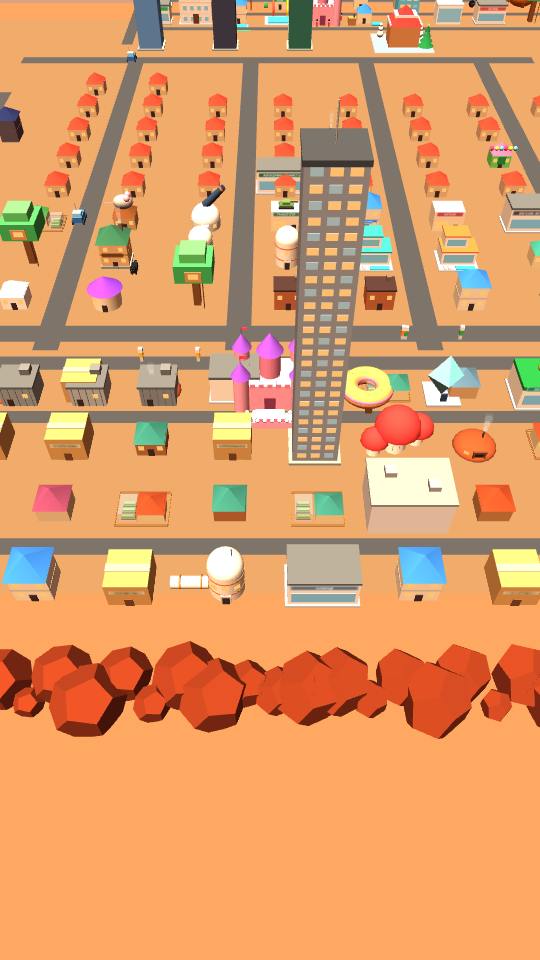
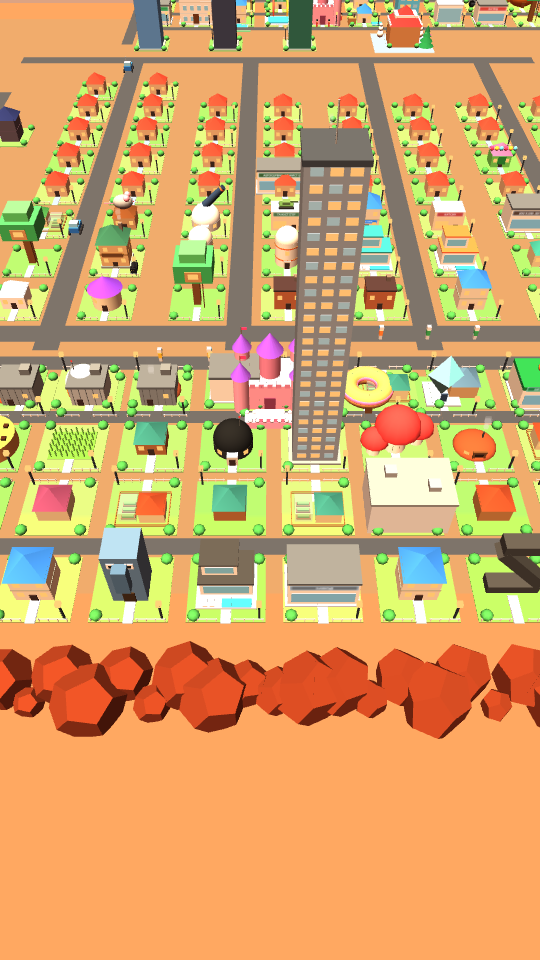
Map: promzona for 722 subscribers, custom models for special requests, cozy lots for every house, go/ landing
Claude-Session: https://claude.ai/code/session_016pR9oEj5MWHV9PKkxUgw4F

diff --git a/render/karta/index.html b/render/karta/index.html
@@ -776,14 +776,17 @@ CT4.forEach(o=>{o.c.visible=false;o.h.g.visible=true});MK4.visible=true;$('cnt4'
 {const PZX=300,PZZ=-52;const gz=new THREE.Mesh(new THREE.PlaneGeometry(90,196),new THREE.MeshLambertMaterial({color:0x8a8f98,polygonOffset:true,polygonOffsetFactor:-1,polygonOffsetUnits:-2}));gz.rotation.x=-1.5708;gz.position.set(PZX,.03,PZZ);gz.receiveShadow=true;sc.add(gz);
 for(let i=0;i<=44;i++){box(sc,.3,2.4,.3,0xf2c230,PZX-45+i*90/44,1.2,PZZ-98);box(sc,.3,2.4,.3,0xf2c230,PZX-45+i*90/44,1.2,PZZ+98)}for(let i=0;i<=96;i++){box(sc,.3,2.4,.3,0xf2c230,PZX-45,1.2,PZZ-98+i*196/96);box(sc,.3,2.4,.3,0xf2c230,PZX+45,1.2,PZZ-98+i*196/96)}
 [[PZX,PZZ-98,90,.15],[PZX,PZZ+98,90,.15],[PZX-45,PZZ,.15,196],[PZX+45,PZZ,.15,196]].forEach(a=>box(sc,a[2],.2,a[3],0x1a1a1a,a[0],2.2,a[1]));
-{const r=new THREE.Mesh(new THREE.PlaneGeometry(60,4),roadM);r.rotation.x=-1.5708;r.position.set(275,.06,12);sc.add(r);[264,282,300,318,336].forEach(x=>{const q=new THREE.Mesh(new THREE.PlaneGeometry(2.6,190),roadM);q.rotation.x=-1.5708;q.position.set(x,.07,PZZ);sc.add(q)})}
+{const r=new THREE.Mesh(new THREE.PlaneGeometry(60,4),roadM);r.rotation.x=-1.5708;r.position.set(275,.06,12);sc.add(r);[300].forEach(x=>{const q=new THREE.Mesh(new THREE.PlaneGeometry(2.6,190),roadM);q.rotation.x=-1.5708;q.position.set(x,.07,PZZ);sc.add(q)})}
 const gt=new THREE.Group();[-6,6].forEach(x=>box(gt,1,8,1,0x3a3f48,x,4,0));box(gt,13,2.8,.6,0x1d2a44,0,8.4,0);lab(gt,'ПРОМЗОНА',12,1.3,'#1d2a44','#f7c24a',0,8.9,.32);lab(gt,'ТВОЙ ДОМ УЖЕ СТРОИТСЯ',12,.9,'#f7c24a','#1a1410',0,7.6,.32);gt.position.set(256,0,12);gt.rotation.y=-Math.PI/2;sc.add(gt);
 const slots=[];for(let r=0;r<10;r++)for(const x of[258,270,276,288,294,306,312,324,330,342].filter((v,i)=>i%2===0||true))slots.push([x,PZZ-58+r*12]);
 const S2=[];for(let r=0;r<10;r++)[258,270,288,306,324,342].forEach(x=>{if(Math.abs(x-264)<4||Math.abs(x-282)<4)return;S2.push([x+(x<264?0:0),PZZ-58+r*12])});
-const SL=[];for(let r=0;r<18;r++)[258.5,269.5,276.5,287.5,294.5,305.5,312.5,323.5,330.5,341.5].forEach(x=>SL.push([x,PZZ-93+r*10.9]));
-let k=0;const put=(g,h)=>{const sl=SL[k++];g.position.set(sl[0],0,sl[1]);g.rotation.y=sl[0]%18<9?-Math.PI/2:Math.PI/2;g.visible=true;if(h){h.x=sl[0];h.z=sl[1];h.district='Промзона'}};
+const SL=[];for(let r=0;r<26;r++)[258,265,272,279,286,293,307,314,321,328,335,342].forEach(x=>SL.push([x,PZZ-94+r*7.5]));
+for(let r=0;r<9;r++)for(let x=262;x<=346;x+=7)SL.push([x,-412+r*7.5]);
+{const g2=new THREE.Mesh(new THREE.PlaneGeometry(94,72),new THREE.MeshLambertMaterial({color:0x8a8f98,polygonOffset:true,polygonOffsetFactor:-1,polygonOffsetUnits:-2}));g2.rotation.x=-1.5708;g2.position.set(304,.03,-382);sc.add(g2);for(let i=0;i<=40;i++){box(sc,.3,2.4,.3,0xf2c230,257+i*94/40,1.2,-418);box(sc,.3,2.4,.3,0xf2c230,257+i*94/40,1.2,-346)}const gt2=new THREE.Group();[-6,6].forEach(x=>box(gt2,1,8,1,0x3a3f48,x,4,0));box(gt2,13,2.8,.6,0x1d2a44,0,8.4,0);lab(gt2,'ПРОМЗОНА-2',12,1.3,'#1d2a44','#f7c24a',0,8.9,.32);lab(gt2,'ТВОЙ ДОМ УЖЕ СТРОИТСЯ',12,.9,'#f7c24a','#1a1410',0,7.6,.32);gt2.position.set(304,0,-344);sc.add(gt2)}
+let k=0;const put=(g,h)=>{const sl=SL[k++];if(!sl){g.visible=false;return}g.scale.setScalar(.62);g.position.set(sl[0],0,sl[1]);g.rotation.y=sl[0]%18<9?-Math.PI/2:Math.PI/2;g.visible=true;if(h){h.x=sl[0];h.z=sl[1];h.top=4;h.district=sl[1]<-300?'Промзона-2':'Промзона'}};
 MLIST.filter(h=>h.site).forEach(h=>{put(h.g,h);h.kind='стройка — ждёт комментарий (TikTok)'});
-for(let i=0;i<85;i++){const g=mk('site');sc.add(g);const h={n:'',anon:1,site:1,g,top:6,kind:'стройка — ждёт комментарий (YouTube)',day:4,district:'Промзона'};put(g,h);MLIST.push(h)}
+const YT_SUBS=722,YT_HOMES=430;// обновлять: подписчики YouTube и жители YouTube с домами
+for(let i=0;i<YT_SUBS-YT_HOMES;i++){const g=mk('site');sc.add(g);const h={n:'',anon:1,site:1,g,top:6,kind:'стройка — ждёт комментарий (YouTube)',day:10,district:'Промзона'};put(g,h);MLIST.push(h)}
 for(let i=0;i<49;i++){const g=mk('site');sc.add(g);const h={n:'',anon:1,site:1,g,top:6,kind:'стройка — ждёт комментарий (TikTok)',day:4,district:'Промзона'};put(g,h);MLIST.push(h)}}
 
 NEW3.forEach(h=>{if(h.fx)h.fx.forEach(f=>f.visible=false);h.rg.visible=false;if(h.deco)h.deco.visible=true});FWP.visible=false;SNOW.visible=false;DAN.fm.visible=false;PZ.visible=false;RK.visible=false;HERO.fm.visible=false;GD.forEach(d=>d.visible=false);
@@ -993,6 +996,37 @@ try{// ===== YouTube: жители из комментариев 10 ноября
 const W10=[["yo_meepo", "osobyi:страна Германия с артиллерией", "страна Германия с артиллерией", 0], ["none_name_wiwiwi", "osobyi:статуя Момо Аясе вместо дома", "статуя Момо Аясе вместо дома", 0], ["cartonsstorm", "store:ВКУСНО И ТОЧКА", "гигантская «Вкусно и точка»", 0], ["ВераВера-э5ы", "izba", "дом", 0], ["ВОЗДУХАН-х5щ", "dacha", "дом", 0], ["alexfrolov9802", "osobyi:дом из Nokia 3310", "дом из Nokia 3310", 0], ["ИльяМартынов-о1м", "izba", "дом", 0], ["Doni03015", "osobyi:бункер под землёй, сверху особняк", "бункер под землёй, сверху особняк", 0], ["Mark-h4o1r", "zeml", "землянка", 0], ["oooominot", "osobyi:дом Гоку из Dragon Ball", "дом Гоку из Dragon Ball", 0], ["МаркМорозов-и1ж", "osobyi:4-этажный бункер на 30 человек", "4-этажный бункер на 30 человек", 0], ["artemgogolev2420", "store:БАР", "бар", 0], ["FRO-g9k", "osobyi:дом-банка кока-колы", "дом-банка кока-колы", 0], ["МихаїлКазмірчук-ъ6с", "dacha", "дом", 0], ["IgorZhukov25", "izba", "дом", 0], ["armanoralov601", "dacha", "дом", 0], ["димка_87677", "osobyi:Рекунская империя", "Рекунская империя", 0], ["EPTARIC", "osobyi:морковный дом", "морковный дом", 0], ["AMONGUS88064", "osobyi:дом семьи Дримурров из Deltarune", "дом семьи Дримурров из Deltarune", 0], ["GrigorBegan", "osobyi:дом из бедрока", "дом из бедрока", 0], ["UgurOsmanov-g2o", "store:РЕСТОРАН", "ресторан", 0], ["Random_Ghast", "osobyi:дом-свинья из Майнкрафта", "дом-свинья из Майнкрафта", 0], ["Українськенебо", "zeml", "землянка на краю города", 0], ["filesOfCheremsha", "izba", "дом", 0], ["мартышкность", "osobyi:дом-большой унитаз", "дом-большой унитаз", 0], ["зюзьевич", "brick", "дом из бетона", 0], ["Anastasia-q4j", "castle", "красный замок и бункер на 100 человек", 0], ["НуралыБалтабаев-э2о", "osobyi:Чернобыльская АЭС", "Чернобыльская АЭС", 0], ["sashkatalgat", "osobyi:подземный бункер с ракетами", "подземный бункер с ракетами", 0], ["Login_G2V3", "osobyi:бункер из стали и титана", "бункер из стали и титана", 0], ["Артем-ь8к", "castle", "двухэтажная крепость", 0], ["Яйко_228", "osobyi:дом-подушка из незерита", "дом-подушка из незерита", 0], ["LosokdkKdkdkk", "osobyi:дом-печенька", "дом-печенька", 0], ["Шурк-ж5д", "osobyi:участок в высокой траве", "участок в высокой траве", 0], ["Asekop79", "izba", "деревянный дом", 0], ["АртемБаландин-у7ы", "osobyi:карбоновый дом-МТБ фулфейс", "карбоновый дом-МТБ фулфейс", 0], ["mukaliaskar8603", "sky", "небоскрёб 40 этажей", 40], ["АсанКудайбердиев-х9в", "mushrooms", "очень большой гриб", 0], ["lazy_bone1", "zeml", "хоббитская нора", 0], ["Tyo-s2p", "dacha", "дом", 0], ["Neuro_xlam", "osobyi:магический дом", "магический дом", 0], ["mr_klk99_99", "osobyi:железный дом с красной крышей", "железный дом с красной крышей", 0], ["UTOPAN-777", "osobyi:центр телекоммуникаций и цифровых технологий", "центр телекоммуникаций и цифровых технологий", 0], ["Мистер-ъ1р", "osobyi:дом-нутелла", "дом-нутелла", 0], ["Durka22808", "osobyi:психдиспансер (дурка)", "психдиспансер (дурка)", 0], ["ДимаЮлдашев-я7ш", "two", "двухэтажный дом", 0], ["твойпьяныйбатя-э2з", "osobyi:дом со всеми персонажами Марвел", "дом со всеми персонажами Марвел", 0], ["Liya._.123-a", "izba", "дом", 0], ["ПирожоксКапустой-ц5о", "osobyi:дом Спанч Боба и рядом ядерка", "дом Спанч Боба и рядом ядерка", 0], ["Billy_Butcher112", "brick", "дом из камня", 0], ["DonierDonier-s7y", "dacha", "дом", 0], ["Fan.Fotball25", "osobyi:перевёрнутый дом", "перевёрнутый дом", 0], ["Максимность-р2э2и-телифон", "osobyi:дом-самолёт", "дом-самолёт", 0], ["Riofrommars", "izba", "дом", 0], ["хлебушек-номер-1", "osobyi:дом из бедрока", "дом из бедрока", 0], ["АндрейТатаров-с8д", "dacha", "дом", 0], ["АндрейБах-ц6э", "zeml", "землянка", 0], ["ЮлияЧмелева-й7з", "izba", "дом", 0], ["ЯрославТитов-в5и", "dacha", "дом", 0], ["YeosM_fanat_ya", "izba", "дом", 0], ["last_breathsans-error", "dacha", "дом", 0], ["pfaissd", "tc", "трёхэтажный супермаркет", 0], ["fanatslava", "izba", "дом", 0], ["ИсламИсаев-ю1ч", "dacha", "дом", 0], ["kama-roblox777", "izba", "дом", 0], ["симп-и4п", "dacha", "дом", 0], ["vanil_official", "izba", "дом", 0], ["MayaAvetisyan-p7s", "osobyi:военный штаб", "военный штаб", 0], ["СветланаМовшович-т6ь", "dacha", "дом", 0], ["BekaJoroev-c7e8f", "izba", "дом", 0], ["Catnet_2", "dacha", "дом", 0], ["Aitoshka_chiken", "osobyi:своя страна против всех", "своя страна против всех", 0], ["Tuev33", "sky", "5-этажка и рыжий кот", 5], ["Fasd_135", "osobyi:завод для ресурсов города", "завод для ресурсов города", 0], ["Джедай1-1", "izba", "дом", 0], ["MakarPecherskiy", "dacha", "дом", 0], ["AnuarMaksut-m6w", "osobyi:дом-чёрная дыра", "дом-чёрная дыра", 0], ["амир-ь9щ1м", "osobyi:страна под флагом Кыргызстана", "страна под флагом Кыргызстана", 0], ["ЗахарДрибас", "osobyi:дом Сквидварда", "дом Сквидварда", 0], ["mark-j8s4e", "izba", "дом", 0], ["ЗА.УХОГРАД", "dacha", "дом", 0], ["Lazy_my7", "two", "двухэтажный домик", 0], ["o3oiop", "osobyi:дом Сквидварда", "дом Сквидварда", 0], ["Itzz_PoZZIzA", "osobyi:дом в стиле хайтек", "дом в стиле хайтек", 0], ["МаликаДжамалудинова-ъ3й", "osobyi:завод пельменей", "завод пельменей", 0], ["FD6_fan", "two", "внизу пекарня, наверху квартира", 0], ["Ярик-й4щ8ф", "osobyi:дом в форме Z", "дом в форме Z", 0], ["АянЖалгасулы-п8с", "osobyi:дом на воздушных шариках", "дом на воздушных шариках", 0], ["raihanjumalieva4155", "izba", "дом", 0], ["RGCBAWI980", "dacha", "дом", 0], ["hisytkitten-j1x", "izba", "дом", 0], ["THMOTKA", "dacha", "дом", 0], ["Taco-Doors", "osobyi:флаг-страна на Марсе", "флаг-страна на Марсе", 0], ["СеняТуркин-ф7э", "store:МАКДОНАЛЬДС", "Макдональдс", 0], ["voinaww3", "osobyi:дом с синей крышей, зелёный, рядом чихуахуа", "дом с синей крышей, зелёный, рядом чихуахуа", 0], ["YaroslavKozlyuk", "izba", "дом из коричневых досок", 0], ["dinamit_3485", "sky", "5-этажный дом в стиле СССР", 5], ["aqua_goner", "osobyi:огромный корабль", "огромный корабль", 0], ["Крипобум", "osobyi:синий дом, серая крыша, газон", "синий дом, серая крыша, газон", 0], ["боглик", "izba", "дом", 0], ["kimkot228", "osobyi:дом-рыжий кот", "дом-рыжий кот", 0], ["Ivan-g9o3g", "dacha", "дом", 0], ["echo17life", "osobyi:простой хайтек-дом", "простой хайтек-дом", 0], ["olegvitkovskij4754", "izba", "дом", 0], ["5_lexs", "store:ВКУСНО И ТОЧКА", "Вкусно и точка", 0], ["АртёмБородин-х6л", "dacha", "дом", 0], ["ЗоригтоАюшеев-х6у", "store:ВКУСНО И ТОЧКА", "Вкусно и точка", 0], ["abo60_1", "banya", "баня", 0], ["умарлучший-р8в", "izba", "дом", 0], ["Аслан-л5с3р", "villa", "большой особняк", 0], ["ВладимирВырдылин-ю4о", "dacha", "дом", 0], ["Andwins", "castle", "замок", 0], ["человый-кракен", "store:ВКУСНО И ТОЧКА", "Вкусно и точка", 0], ["АртурКондренко", "izba", "дом", 0], ["FogaFoga-h1v", "osobyi:дом-кот", "дом-кот", 0], ["Стеноцвет", "dacha", "дом", 0], ["MDLUFFY-OFF", "boxH", "домик из коробки", 0], ["VladNgames", "osobyi:дом-сердце с аватаркой", "дом-сердце с аватаркой", 0], ["Veznan76", "osobyi:завод атомных бомб", "завод атомных бомб", 0], ["outrifbe", "osobyi:дом из мема «Да ты что..»", "дом из мема «Да ты что..»", 0], ["Мафия-220", "osobyi:необычный дом", "необычный дом", 0], ["kifir-n5p", "store:ПЯТЁРОЧКА", "Пятёрочка-дом", 0], ["XirobonMamatkulova", "izba", "дом", 0], ["henmru", "osobyi:дом-шестерня", "дом-шестерня", 0], ["Тимофей-прив", "two", "двухэтажка как на даче", 0], ["Margarita-q6p1j", "izba", "обычный дом", 0], ["AbdumajidAbdubositov", "brick", "синяя крыша, красные стены", 0], ["DustLOVEtea", "dacha", "дом", 0], ["Стикмен_в_синих_очках", "osobyi:дом на дереве", "дом на дереве", 0], ["Гусь_деловусь", "osobyi:дом-гусь", "дом-гусь", 0], ["ggg_ggg-gg", "osobyi:телевышка для интернета", "телевышка для интернета", 0], ["Аристарх-щ1л8л", "osobyi:хайтек-дом", "хайтек-дом", 0], ["mikhail_pts", "osobyi:база 2Fort (TF2)", "база 2Fort (TF2)", 0], ["DilfuzaOchilova-b7l4p", "osobyi:дом-ракета", "дом-ракета", 0], ["KIMONO_BLACK", "osobyi:дом-кекс", "дом-кекс", 0], ["King_Elnyr", "osobyi:дом-Сатурн", "дом-Сатурн", 0], ["ArturPaket", "izba", "обычный синий дом", 0], ["ИлькинАхмедли-р5п", "two", "жёлтая двухэтажка", 0], ["KoilZairex_Nik-me5zu", "castle", "замок в стиле дарк-фэнтези", 0], ["Allan-h3e2z", "izba", "дом", 0], ["Ami_YT2016", "dacha", "дом", 0], ["SaidaTursunova-bb3tw", "osobyi:дом-перец", "дом-перец", 0], ["Dawut-s9i6x", "izba", "обычный дом", 0], ["пузо-е2о", "villa", "самый большой дом", 0], ["monkey_D_luffyN1", "izba", "дом", 0], ["NyashechnyKotik", "osobyi:дом-котик", "дом-котик", 0], ["SweetSniper-e8y", "osobyi:дом-кот Максвелл", "дом-кот Максвелл", 0], ["Алмаз-ф4е6о", "osobyi:школа", "школа", 0], ["BOBCHASERofficial", "two", "двухэтажный дом", 0], ["Xretelov", "capsule", "белый мини-дом", 0], ["LamineYamal-304-isp", "osobyi:чёрно-белый дом", "чёрно-белый дом", 0], ["PIZZAPLAY.ofisial", "osobyi:дом на дереве", "дом на дереве", 0], ["DavranBotoev", "castle", "замок", 0], ["Todji-andGOJO", "osobyi:дом-красный Сатурн", "дом-красный Сатурн", 0], ["зюзяс137", "osobyi:атомная электростанция", "атомная электростанция", 0], ["levon_here", "dacha", "дом", 0], ["Санс-к1с", "osobyi:дом с котиками", "дом с котиками", 0], ["molofok_z", "osobyi:дом-молоток", "дом-молоток", 0], ["ZILOLASALAKHITDINOVA", "castle", "замок", 0], ["Назар-ю3д4г", "izba", "дом", 0], ["Сёма-д7д2р", "osobyi:дом-диван", "дом-диван", 0], ["Imnot-m5h", "boxH", "дом-коробка", 0], ["АнастасияАбрамежкая", "osobyi:школа", "школа", 0], ["CowBoy355-rbx", "dacha", "дом", 0], ["dianasakibekova7204", "two", "двухэтажный дом", 0], ["GoldFlareGD", "shalash", "сарай", 0], ["МаринаШилина-ъ6ъ", "izba", "дом", 0], ["opelek_kpblca", "osobyi:дом на колёсах у парковки", "дом на колёсах у парковки", 0], ["Gorod_Kotikov", "dacha", "дом", 0], ["санчоус002", "store:НАЦИОНАЛЬНЫЙ РЕСТОРАН", "многонациональный ресторан", 0], ["ВарвараСпиридонова-ы2ш", "izba", "дом", 0], ["Driem1221-r5e", "osobyi:дом-зелёная буква V", "дом-зелёная буква V", 0], ["真恐怖-f7z", "dacha", "дом", 0], ["НиколайПогребенный-т2б", "osobyi:дом на дереве", "дом на дереве", 0]];
 function saturn10(c){const g=new THREE.Group();msh(g,new THREE.SphereGeometry(3,20,14),c||0xe8b46a,0,3.4,0);const r=new THREE.Mesh(new THREE.TorusGeometry(4.6,.35,6,32),mat(0xf4e0b0));r.position.y=3.4;r.rotation.x=1.2;g.add(r);g.userData.top=6.6;return g}
 function flag10(c){const g=izba(0xe8d8c0,0x6a3a2a);box(g,.3,10,.3,0xd8dce4,2.6,5,1.6);box(g,4,1.4,.1,c||0xd93a2a,4.6,9.2,1.6);g.userData.top=10.5;return g}
+
+// --- модели по особым просьбам жителей (выпуск 10) ---
+const P10={
+toilet(){const g=new THREE.Group();msh(g,new THREE.CylinderGeometry(2.6,2,3,20),0xf4f4f6,0,1.5,.6);const t=msh(g,new THREE.TorusGeometry(2.3,.45,8,24),0xe8e8ee,0,3.1,.6);t.rotation.x=1.5708;box(g,4.4,5,1.8,0xf4f4f6,0,4,-1.8);box(g,4.6,.6,2,0xdcdce4,0,6.7,-1.8);box(g,1,1.4,.2,0x6a4326,0,.9,2.55);g.userData.top=7.2;return g},
+cookie(c){const g=new THREE.Group();const m=msh(g,new THREE.CylinderGeometry(3.6,3.6,2.4,26),c||0xc98a4a,0,1.2,0);for(let i=0;i<9;i++)box(g,.6,.4,.6,0x3a2014,Math.cos(i*2.4)*(1+i%3*.8),2.5,Math.sin(i*2.4)*(1+i%3*.8));box(g,1,1.4,.2,0x6a4326,0,.8,3.6);g.userData.top=3;return g},
+jar(c,lab2){const g=new THREE.Group();msh(g,new THREE.CylinderGeometry(2.6,2.6,6,22),c,0,3,0);msh(g,new THREE.CylinderGeometry(2.7,2.7,1,22),0xf4f4f4,0,6.4,0);lab(g,lab2,4,1.2,'#ffffff',c===0xd81e1e?'#d81e1e':'#5a3010',0,3.4,2.62);box(g,1,1.4,.2,0x6a4326,0,.7,2.65);g.userData.top=7;return g},
+veg(c,leaf){const g=new THREE.Group();const m=msh(g,new THREE.ConeGeometry(2.4,7,14),c,0,3.5,0);m.rotation.x=Math.PI;m.position.y=3.6;for(let i=0;i<4;i++){const l=msh(g,new THREE.ConeGeometry(.5,2.4,6),leaf||0x3aa04a,Math.cos(i*1.57)*.6,7.8,Math.sin(i*1.57)*.6);l.rotation.z=Math.cos(i*1.57)*.4}box(g,1,1.4,.2,0x3a2014,0,1,1.6);g.userData.top=8.4;return g},
+cupcake(){const g=new THREE.Group();msh(g,new THREE.CylinderGeometry(3,2.3,3,18),0xf2a0c0,0,1.5,0);msh(g,new THREE.SphereGeometry(3.1,18,10,0,6.283,0,1.6),0xfff4e8,0,3,0);msh(g,new THREE.SphereGeometry(.7,10,8),0xd81e3a,0,6.2,0);box(g,1,1.4,.2,0x6a4326,0,.7,2.7);g.userData.top=7;return g},
+heart(){const g=new THREE.Group();[-1.3,1.3].forEach(x=>msh(g,new THREE.SphereGeometry(2.2,16,12),0xe8325a,x,5,0));const c=msh(g,new THREE.ConeGeometry(3.4,4.4,16),0xe8325a,0,2.4,0);c.rotation.x=Math.PI;box(g,1,1.4,.2,0x3a1018,0,.9,1.6);g.userData.top=7.4;return g},
+goose(){const g=new THREE.Group();msh(g,new THREE.SphereGeometry(3,16,12),0xf4f4f4,0,2.6,0).scale.set(1.3,.8,1);box(g,1,5,1,0xf4f4f4,0,5,2.6);box(g,1.4,1.2,1.6,0xf4f4f4,0,7.6,2.9);box(g,.6,.5,1.2,0xf2a030,0,7.5,4);box(g,1,1.4,.2,0x3a2414,0,1,3.8);g.userData.top=8.4;return g},
+plane(){const g=new THREE.Group();const b=msh(g,new THREE.CylinderGeometry(1.6,1.6,10,16),0xe8ecf2,0,3,0);b.rotation.x=1.5708;box(g,12,.4,2.6,0xd8dce4,0,3,0);box(g,4,.3,1.4,0xd8dce4,0,4.6,-4.4);box(g,.3,2.4,1.4,0xd93a2a,0,4.4,-4.4);[-4,-1.5,1.5].forEach(z=>box(g,.1,.6,.6,0x7fc0f0,1.62,3.4,z));[-3,3].forEach(x=>box(g,.4,1.6,.4,0x3a3f48,x,1,0));g.userData.top=6;return g},
+rocket(){const g=new THREE.Group();msh(g,new THREE.CylinderGeometry(1.6,1.8,9,18),0xf4f4f4,0,4.5,0);msh(g,new THREE.ConeGeometry(1.6,3,18),0xd93a2a,0,10.5,0);[0,1,2,3].forEach(i=>{const f=box(g,.3,3,2,0xd93a2a,Math.cos(i*1.57)*1.8,1.5,Math.sin(i*1.57)*1.8);f.rotation.y=i*1.57});msh(g,new THREE.CylinderGeometry(.6,.6,.2,14),0x7fc0f0,0,7,1.62).rotation.x=1.5708;g.userData.top=12;return g},
+blackhole(){const g=new THREE.Group();msh(g,new THREE.SphereGeometry(2.6,20,14),0x05030a,0,4,0);const r=new THREE.Mesh(new THREE.TorusGeometry(4.4,.6,8,40),new THREE.MeshBasicMaterial({color:0xff8a2a}));r.position.y=4;r.rotation.x=1.3;g.add(r);const r2=new THREE.Mesh(new THREE.TorusGeometry(5.6,.25,6,40),new THREE.MeshBasicMaterial({color:0xffd27a}));r2.position.y=4;r2.rotation.x=1.3;g.add(r2);g.userData.top=8;return g},
+treehouse(){const g=new THREE.Group();box(g,1.6,7,1.6,0x6a4326,0,3.5,0);msh(g,new THREE.SphereGeometry(4.4,12,10),0x3fae5a,0,10,0);box(g,4.6,3,4,0xb07a45,0,7.4,0);msh(g,new THREE.ConeGeometry(3.6,2,4),0x8a3b22,0,9.8,0).rotation.y=.785;for(let i=0;i<7;i++)box(g,1.4,.15,.3,0x8a5a30,2,i,1.2);g.userData.top=14;return g},
+gear(){const g=new THREE.Group();const c=msh(g,new THREE.CylinderGeometry(3.4,3.4,2,20),0x8a929c,0,4,0);c.rotation.x=1.5708;for(let i=0;i<10;i++){const t=box(g,1,1.4,2,0x7a828c,Math.cos(i*.628)*4,4+Math.sin(i*.628)*4,0)}msh(g,new THREE.CylinderGeometry(1.2,1.2,2.2,14),0x3a3f48,0,4,0).rotation.x=1.5708;box(g,6,.6,3,0x5a606a,0,.3,0);g.userData.top=8.6;return g},
+hammer(){const g=new THREE.Group();box(g,1.4,8,1.4,0x8a5a30,0,4,0);box(g,7,2.8,2.8,0x6a707a,0,9,0);box(g,1,1.4,.2,0x3a2414,0,.8,.8);g.userData.top=10.6;return g},
+phone(){const g=new THREE.Group();box(g,4.4,9,2,0x2a3a5a,0,4.5,0);box(g,3.2,2.8,.1,0x9ad07a,0,6.6,1.02);for(let r=0;r<4;r++)for(let c=0;c<3;c++)box(g,.8,.5,.1,0xd8dce4,-1+c,3.8-r*.8,1.02);lab(g,'NOKIA',2.6,.6,'#2a3a5a','#d8dce4',0,8.4,1.03);g.userData.top=9.2;return g},
+pig(){const g=new THREE.Group();box(g,6,4.4,4.4,0xf2a0b0,0,3,0);box(g,4,4,4,0xf2a0b0,0,4.4,3.6);box(g,2,1.2,.6,0xe87a90,0,3.8,5.8);[-1,1].forEach(x=>box(g,.6,.6,.2,0x1a1a1a,x,5.2,5.62));[[-2,-1.5],[2,-1.5],[-2,1.5],[2,1.5]].forEach(a=>box(g,1.2,1.4,1.2,0xf2a0b0,a[0],.7,a[1]));g.userData.top=6.6;return g},
+bedrock(){const g=new THREE.Group();for(let x=-2;x<=2;x++)for(let y=0;y<4;y++)for(let z=-2;z<=2;z+=4)box(g,1.04,1.04,1.04,[0x3a3a3a,0x5a5a5a,0x2a2a2a][(x+y*3+z)&1?0:((x*y)%3+3)%3],x*1.04,y*1.04+.5,z*1.04);box(g,5.4,1,5.4,0x4a4a4a,0,4.6,0);g.userData.top=5.4;return g},
+squid(){const g=new THREE.Group();box(g,4,9,4,0x5a7aa0,0,4.5,0);box(g,1.6,4,1.4,0x4a6a90,0,6,2.6);[-1,1].forEach(x=>{box(g,.9,.9,.2,0xf4f4f4,x,7.6,2.02);box(g,.4,.4,.1,0x1a1a1a,x,7.6,2.12)});box(g,1.4,2,.2,0x3a2a1a,0,1,2.02);g.userData.top=9.4;return g},
+pineapple(nuke){const g=new THREE.Group();msh(g,new THREE.SphereGeometry(3.2,14,12),0xf2a830,0,3.6,0).scale.set(1,1.3,1);for(let i=0;i<6;i++){const l=msh(g,new THREE.ConeGeometry(.6,3,5),0x3aa04a,Math.cos(i)*.8,8.4,Math.sin(i)*.8);l.rotation.z=Math.cos(i)*.5}box(g,1.2,1.6,.2,0x3a6a8a,0,1.2,3);if(nuke){const n=new THREE.Group();msh(n,new THREE.CylinderGeometry(.8,.8,4,12),0x4a5a3a,0,2,0);msh(n,new THREE.ConeGeometry(.8,1.4,12),0xd8c030,0,4.7,0);n.position.set(4.5,0,0);g.add(n)}g.userData.top=10;return g},
+upside(){const g=izba(0xe8d8c0,0x8a3b22);g.rotation.z=Math.PI;g.position.y=6;const w=new THREE.Group();w.add(g);w.userData.top=7;return w},
+letter(ch,c){const g=new THREE.Group();const d={Z:[[0,8,6,1.4],[0,0,6,1.4],[0,4,1.4,8.6,.75]],V:[[-1.6,4,1.4,8.6,-.35],[1.6,4,1.4,8.6,.35]]}[ch]||[];d.forEach(a=>{const b=box(g,a[2],a[3],2,c||0x3aa04a,a[0],a[1]+.7,0);if(a[4])b.rotation.z=a[4]});g.userData.top=10;return g},
+trailer(){const g=new THREE.Group();box(g,8,3.6,3.4,0xf4f0e6,0,2.4,0);box(g,8.1,.8,3.5,0x3a7ac0,0,3,0);[-2.6,2.6].forEach(x=>{const w=msh(g,new THREE.CylinderGeometry(.8,.8,.5,14),0x1a1a1a,x,.8,1.8);w.rotation.x=1.5708;const w2=msh(g,new THREE.CylinderGeometry(.8,.8,.5,14),0x1a1a1a,x,.8,-1.8);w2.rotation.x=1.5708});box(g,1,1.6,.1,0x6a4326,2.8,1.8,1.72);g.userData.top=4.4;return g},
+forts(){const g=new THREE.Group();[[-3.4,0xb83a2a],[3.4,0x2a5ab8]].forEach(a=>{box(g,5,6,5,a[1],a[0],3,0);for(let i=-2;i<=2;i+=2)box(g,1,1,5,a[1],a[0]+i,6.5,0)});box(g,2,.6,2,0x8a8a8a,0,4,0);g.userData.top=7.4;return g},
+statue(c){const g=new THREE.Group();box(g,4,2,4,0xd8d4cc,0,1,0);box(g,1.6,4,1,c||0xe8e4f0,0,4,0);msh(g,new THREE.SphereGeometry(1,12,10),0xf4e0d0,0,6.8,0);box(g,2.6,1.6,1.2,0x1a1a2a,0,7.4,-.2);[-1.2,1.2].forEach(x=>box(g,.5,3,.5,c||0xe8e4f0,x,4.4,0));g.userData.top=8.4;return g},
+marvel(){const g=mk('two');[0xd81e1e,0x2a5ad8,0x3aa04a,0xf2c230,0x1a1a1a].forEach((c,i)=>{const p=new THREE.Group();box(p,.8,1.6,.5,c,0,1.2,0);msh(p,new THREE.SphereGeometry(.45,8,6),c,0,2.3,0);p.position.set(-3+i*1.5,0,3.4);g.add(p)});return g},
+magic(){const g=izba(0x6a3ab0,0x2a1a5a);for(let i=0;i<6;i++){const st=new THREE.Mesh(new THREE.OctahedronGeometry(.4),new THREE.MeshBasicMaterial({color:0xffe27a}));st.position.set(Math.cos(i)*3,6+i%3,Math.sin(i)*3);g.add(st)}return g},
+grass(){const g=new THREE.Group();box(g,6,.2,5,0x5a9a3a,0,.1,0);for(let i=0;i<40;i++)box(g,.15,1.2+((i*7)%10)/10,.15,0x6ab84a,-2.6+(i%8)*.75,.7,-2+Math.floor(i/8)*1);g.userData.top=2;return g},
+hq(){const g=store3('ШТАБ','#4a5a3a',8);box(g,.3,9,.3,0xd8dce4,4,4.5,-2);box(g,3,1.6,.1,0x3a6a3a,5.6,8,-2);return g},
+artillery(){const g=new THREE.Group();box(g,3,1.2,3,0x4a5a3a,0,.9,0);const b=msh(g,new THREE.CylinderGeometry(.3,.4,4,10),0x3a4a2a,0,2,1.6);b.rotation.x=1.1;return g}};
 const has=f=>typeof f==='function';
 function b10(nik,tip,op,et){const t=tip.split(':')[0],arg=tip.slice(t.length+1),o=(op||'').toLowerCase();
  if(['izba','brick','dome','kupol','dacha','banya','two','zeml','capsule','cottage'].includes(t))return mk(t);
@@ -1001,6 +1035,8 @@ function b10(nik,tip,op,et){const t=tip.split(':')[0],arg=tip.slice(t.length+1),
  if(t==='boxH')return boxH(nik.slice(0,12));if(t==='studio'&&has(studio))return studio();if(t==='meteorH'&&has(meteorH))return meteorH();
  if(t==='sky')return sky3(et||20,0x8a96a8);
  if(t==='store')return store3((arg||'МАГАЗИН').toUpperCase().slice(0,16),'#d93a2a',7);
+ const R10=[[/унитаз/,()=>P10.toilet()],[/печень/,()=>P10.cookie()],[/нутелл/,()=>P10.jar(0x5a3010,'NUTELLA')],[/кока|кола/,()=>P10.jar(0xd81e1e,'COLA')],[/морков/,()=>P10.veg(0xf27a1a)],[/перец/,()=>P10.veg(0xd81e1e,0x2a8a3a)],[/кекс/,()=>P10.cupcake()],[/сердц/,()=>P10.heart()],[/гус/,()=>P10.goose()],[/самол/,()=>P10.plane()],[/ракет/,()=>P10.rocket()],[/чёрн.{0,3}дыр|черн.{0,3}дыр/,()=>P10.blackhole()],[/на дереве/,()=>P10.treehouse()],[/шестерн/,()=>P10.gear()],[/молот/,()=>P10.hammer()],[/nokia|3310/,()=>P10.phone()],[/свин/,()=>P10.pig()],[/бедрок/,()=>P10.bedrock()],[/сквидвард/,()=>P10.squid()],[/спанч|губк/,()=>P10.pineapple(/ядерк/.test(o))],[/перевёрн|перевернут/,()=>P10.upside()],[/форме z| z$/,()=>P10.letter('Z',0x3a3a3a)],[/буква v/,()=>P10.letter('V',0x3aa04a)],[/колёс|колес/,()=>P10.trailer()],[/2fort|tf2/,()=>P10.forts()],[/статуя|момо/,()=>P10.statue(0x3a2a5a)],[/марвел|marvel/,()=>P10.marvel()],[/магическ/,()=>P10.magic()],[/трав/,()=>P10.grass()],[/диван/,()=>has(sofaH)?sofaH():mk('two')],[/артиллер/,()=>{const g=flag10(0x1a1a1a);const a2=P10.artillery();a2.position.set(-3.6,0,2.4);g.add(a2);return g}],[/штаб|база/,()=>P10.hq()],[/подушк/,()=>{const g=new THREE.Group();const m=msh(g,new THREE.BoxGeometry(7,2.6,5),0x3a2e3e,0,1.3,0);box(g,1,1.4,.2,0x1a1018,0,.8,2.55);g.userData.top=3;return g}],[/корабл/,()=>has(ship3)?ship3():P10.plane()],[/гоку|dragon/,()=>{const g=dome(0xf2f2f2,0xf27a1a);return g}],[/дримурр|deltarune/,()=>izba(0x8a5ac0,0x3a2a6a)],[/мем|да ты что/,()=>store3('ДА ТЫ ЧТО..','#2a2a2a',7)],[/хайтек/,()=>villa(0x3a3a3a)],[/мтб|карбон/,()=>{const g=dome(0x1a1a1a,0x2a2a2a);return g}],[/железн/,()=>brick(0x8a929c)],[/чёрно-бел|черно-бел/,()=>izba(0xf4f4f4,0x1a1a1a)],[/синий дом|синяя/,()=>izba(0x3a6ad9,0x7a7a82)],[/зелён.{0,10}дом|чихуахуа/,()=>izba(0x3aa04a,0x3a6ad9)],[/бункер.{0,20}особняк/,()=>villa(0x6a6a6a)],[/кот|максвелл/,()=>has(domeCatsPC)?domeCatsPC():mk('dome')]];
+ for(const [re,fn] of R10)if(re.test(o))return fn();
  if(/кот|максвелл/.test(o)&&has(domeCatsPC))return domeCatsPC();
  if(/дерев/.test(o)&&has(tree3))return tree3();
  if(/сатурн/.test(o))return saturn10(/красн/.test(o)?0xd8583a:0);
@@ -1027,6 +1063,16 @@ W10.forEach((q,i)=>{const s=sl10[i];if(!s)return;let g;try{g=b10(q[0],q[1],q[2],
  g.position.set(s[0],0,s[1]);g.rotation.y=s[1]<0&&s[1]>-300?((Math.round((s[1]+214)/11)%2)?0:Math.PI):Math.PI;sc.add(g);
  MLIST.push({n:q[0],g,x:s[0],z:s[1],top:(g.userData.top||6)*g.scale.y,kind:q[2]||'дом',day:10,district:'Квартал 10 ноября'})})
 }catch(e){console.warn("yt10",e)}
+try{// ===== УЮТ: газон, дорожка, фонарь, кусты и заборчик у каждого жилого дома =====
+const LG=[0x6aa84a,0x5f9e44,0x74b052],LAMP=new THREE.MeshBasicMaterial({color:0xffd27a});
+MLIST.forEach((h,i)=>{if(!h.g||h.site||h.bld||h.anon||!h.g.parent||h.g.userData.decor)return;const g=h.g;g.userData.decor=1;const d=new THREE.Group();
+ const lw=box(d,9,.12,8.6,LG[i%3],0,.06,.4);lw.receiveShadow=false;
+ for(let k=0;k<4;k++)box(d,1.1,.14,.9,0xd8cdb8,0,.08,3.2+k*1.2>4.6?4.4:3.2+k*.4);
+ box(d,1.2,.14,3.6,0xd8cdb8,0,.09,3.1);
+ box(d,.22,3.2,.22,0x2a2d34,3.8,1.6,4.2);const l=new THREE.Mesh(new THREE.BoxGeometry(.6,.6,.6),LAMP);l.position.set(3.8,3.3,4.2);d.add(l);
+ [[-3.6,4.1],[ -3.6,-3.4],[3.7,-3.4]].forEach(a=>{const b=msh(d,new THREE.SphereGeometry(.75,8,6),0x3f8f45,a[0],.6,a[1]);b.scale.y=.8});
+ for(let x=-4.2;x<=4.2;x+=1.05){if(Math.abs(x)<1)continue;box(d,.12,.7,.12,0xf4efe6,x,.35,4.6)}box(d,3.4,.1,.1,0xf4efe6,-2.6,.6,4.6);box(d,3.4,.1,.1,0xf4efe6,2.6,.6,4.6);
+ g.add(d)})}catch(e){console.warn("decor",e)}
 try{// ===== ОПТИМИЗАЦИЯ: склеиваем мелкие детали (десятки тысяч → сотни объектов) =====
 (function(){if(typeof PCAR!=='undefined')PCAR.userData.dyn=1;if(typeof FTR!=='undefined')FTR.userData.dyn=1;
 const MI=new THREE.Matrix4(),TMP=new THREE.Matrix4();

diff --git a/render/karta/go/index.html b/render/karta/go/index.html
@@ -1,0 +1,10 @@
+<!doctype html><html lang="ru"><head><meta charset="utf-8"><meta name="viewport" content="width=device-width,initial-scale=1,viewport-fit=cover"><title>MARS CITY — подпишись</title>
+<style>:root{color-scheme:dark}*{box-sizing:border-box}body{margin:0;min-height:100vh;min-height:100dvh;display:flex;flex-direction:column;align-items:center;justify-content:center;gap:18px;padding:24px;background:linear-gradient(#3a2046,#c86a4a);font-family:system-ui,-apple-system,"Segoe UI",Arial,sans-serif;color:#fff;text-align:center}
+h1{font-size:34px;margin:0 0 4px;font-weight:900;text-shadow:0 3px 0 #1a1018}h1 span{color:#f7c24a}p{margin:0 0 14px;font-size:17px;opacity:.9;max-width:360px}
+a.b{display:flex;align-items:center;justify-content:center;gap:12px;width:100%;max-width:380px;padding:18px;border-radius:999px;font-size:21px;font-weight:800;text-decoration:none;color:#fff;box-shadow:0 6px 0 rgba(0,0,0,.35)}
+.yt{background:#dc1e1e}.tt{background:#121216}.mp{background:#f7c24a;color:#1a1410!important}small{opacity:.75;font-size:14px;margin-top:10px;max-width:360px}</style></head>
+<body><h1>ХОЧЕШЬ ДОМ<br><span>НА МАРСЕ?</span></h1><p>Подпишись, напиши в комментах, что построить, — и завтра твой дом появится в городе 🏠</p>
+<a class="b yt" href="https://youtube.com/@gorodpodpiscikov">▶ Подписаться на YouTube</a>
+<a class="b tt" href="https://www.tiktok.com/@gorodkotikov">🎵 Подписаться на TikTok</a>
+<a class="b mp" href="/">🗺 Найти свой дом на карте</a>
+<small>Смотри ролики до конца 👀 — в конце всегда что-то важное, а город от этого растёт быстрее</small></body></html>

diff --git a/render/karta/README.md b/render/karta/README.md
@@ -19,3 +19,4 @@
 
 ## Журнал обновлений
 - 2026-11-10: квартал «10 ноября» — 174 жителя из комментариев YouTube к выпускам 4–9 (собраны `render/kommentarii/sobrat.py`, разобраны в `render/kommentarii/out/zhiteli-10.json`). Блок `YouTube: жители из комментариев 10 ноября` перед «ОПТИМИЗАЦИЕЙ»; места: полоса z −214…−181 (x 6…259), юго-восток z 206…283 (x 258…346), север z −380…−356. `MAPCFG.days.max` 8 → 10. Пропущены 2 ника (реклама, оскорбление).
+- 2026-11-10: промзона под 722 подписчика YouTube (`YT_SUBS`, `YT_HOMES` в блоке ПРОМЗОНА — обновлять числа): плотная сетка 12×26 + «Промзона-2» на севере, участки в масштабе 0.62; одна центральная дорога. Модели особых просьб (`P10`: унитаз, печенька, банки, морковь/перец, кекс, сердце, гусь, самолёт, ракета, чёрная дыра, дом на дереве, шестерня, молоток, Nokia, свинья, бедрок, Сквидвард, ананас Спанч Боба, перевёрнутый дом, буквы Z/V, дом на колёсах, 2Fort, статуя, Марвел, магический дом, трава, штаб, артиллерия). Блок «УЮТ»: газон, дорожка, фонарь, кусты, заборчик у каждого жилого дома. Сохранён лендинг `go/index.html` из архива.
